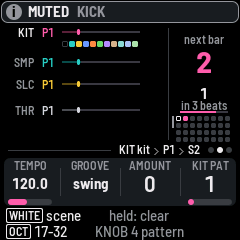
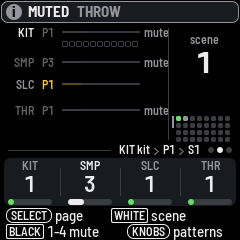
Release 0.9: the site says the Scenes page's knobs and mutes

diff --git a/tools/make_pages.py b/tools/make_pages.py
@@ -187,7 +187,7 @@ Installing is at your own risk. It starts with fresh projects: back up @@LOOM@@ 
   <li><b>A sound browser</b>: PRESETS on a drum lists Hortator's 143 sounds by engine, each heard as you turn to it; ALGORITHM jumps to the next engine.</li>
   <li><b>Generators</b>: hold a drum and the knobs set its hits, turn it, vary it; the Generate page previews Euclid, mutate and Mutable Instruments' Grids before it writes them. <b>Grids is also a throw</b>: held, the kick, snare and hat play from the drum map, and SEL keeps what you hear.</li>
   <li><b>Held buttons, from any page</b>, each drawing its keys: GLO for the mutes, solo and a fill (at once or at the bar line), FX for the throws. EDIT held, a knob turns every drum's.</li>
-  <li><b>A Scenes page</b> beside HOME: every track's pattern in the scene, the kit's drums and their mutes, the scenes on the white keys.</li>
+  <li><b>A Scenes page</b> beside HOME: every track's pattern in the scene on a knob of its own, the tracks' mutes on the black keys, the kit's drums and their mutes, the scenes on the white keys.</li>
   <li><b>ALL</b> on an effect's Mix strip: every track into FX I or FX II.</li>
   <li><b>Twenty-four throws</b>: @@LOOM@@'s twelve, and twelve more in the second octave: thin, roll, buzz, soft, hard, rise, drop, down, a low-pass, delay and reverb throws, a crusher.</li>
   <li>@@LOOM@@'s <b>sequencer</b>: eight patterns of up to 64 steps, tricks and parameter locks on any step, weave, throws, scenes and a song.</li>
